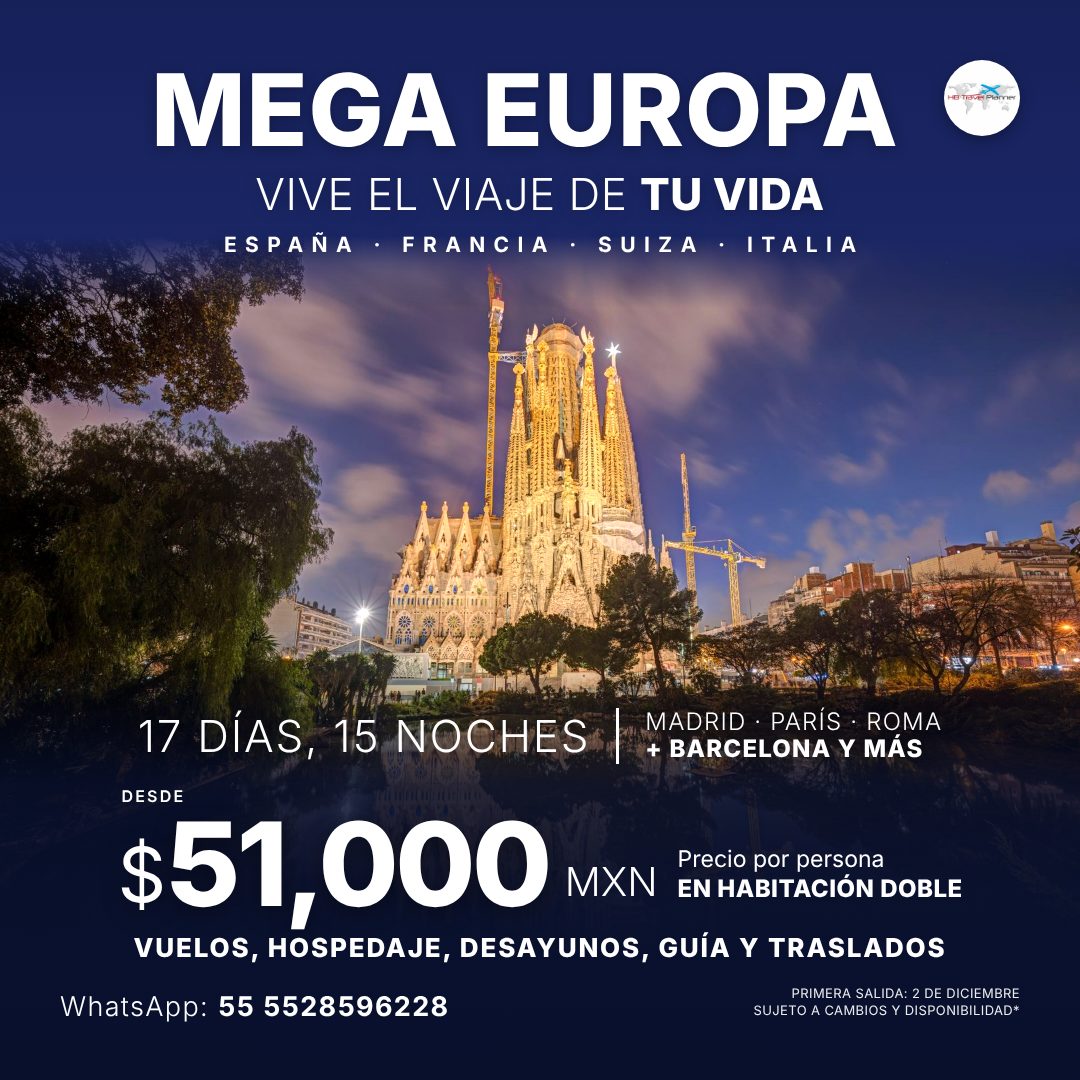
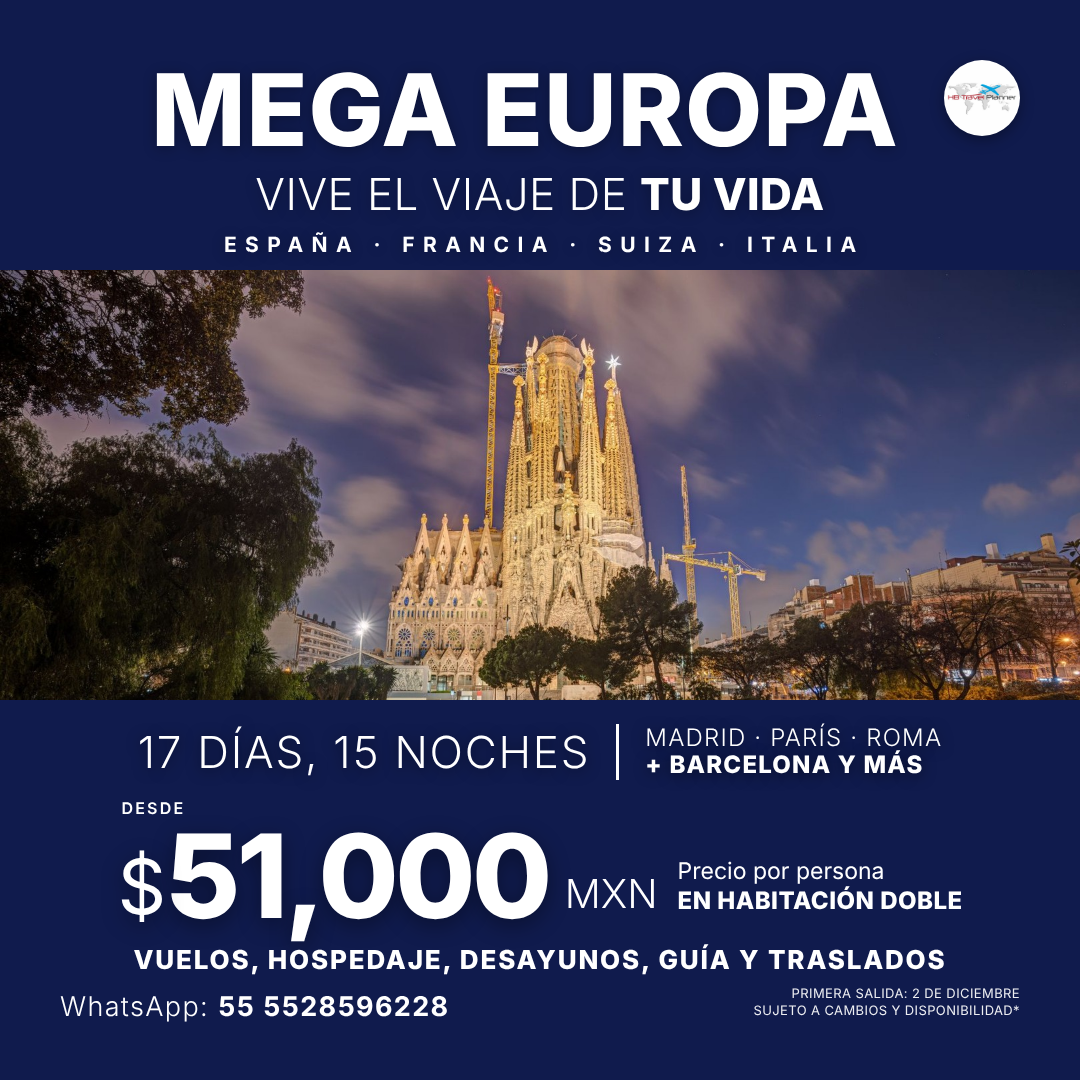
Mega Europa Sagrada flyer: flat solid layout, no gradients
Claude-Session: https://claude.ai/code/session_01KE8y3zqjDfDU485wDV3TSB

diff --git a/flyers/mega-europa-sagrada.html b/flyers/mega-europa-sagrada.html
@@ -9,16 +9,9 @@
   *{box-sizing:border-box;margin:0;padding:0}
   body{background:#000;width:1080px;height:1080px;font-family:'Inter',sans-serif;color:#fff}
   .flyer{position:relative;width:1080px;height:1080px;overflow:hidden;
-    background:linear-gradient(180deg,#16215a 0,#1b2766 24%,#141d4a 60%,#0a1232 100%)}
-  .photo{position:absolute;left:0;top:236px;width:1080px;height:719px;
-    background:url(assets/sagrada.jpg) center/1080px 719px no-repeat;filter:brightness(1.12) saturate(1.15);
-    -webkit-mask-image:linear-gradient(180deg,transparent 0,#000 10%,#000 72%,transparent 100%);
-            mask-image:linear-gradient(180deg,transparent 0,#000 10%,#000 72%,transparent 100%)}
-  /* velo azul: da contraste al texto blanco sobre el cielo claro */
-  .tint{position:absolute;left:0;right:0;top:0;height:640px;
-    background:linear-gradient(180deg,rgba(18,76,160,.94) 0,rgba(26,92,172,.74) 30%,rgba(36,108,184,.46) 52%,rgba(36,108,184,0) 70%)}
-  .shade{position:absolute;left:0;right:0;top:660px;height:420px;
-    background:linear-gradient(180deg,rgba(8,16,44,0),rgba(8,16,44,.8) 30%,rgba(8,16,44,.92))}
+    background:#101b4d}
+  .photo{position:absolute;left:0;top:270px;width:1080px;height:430px;
+    background:url(assets/sagrada.jpg) 0 -22px/1080px 720px no-repeat}
   .t{position:absolute;left:var(--m);right:var(--m);text-align:center;text-shadow:0 2px 14px rgba(0,0,0,.3)}
   .title{top:60px;font-weight:800;font-size:100px;line-height:1;letter-spacing:.01em;text-transform:uppercase;
     padding-right:30px /* deja libre la esquina del logo */}
@@ -28,14 +21,14 @@
   .logo{position:absolute;right:var(--m);top:var(--m);width:76px;height:76px;border-radius:50%;
     background:#fff url(assets/logo.jpg) center/118% no-repeat;box-shadow:0 4px 14px rgba(0,0,0,.35)}
 
-  .row1{position:absolute;left:var(--m);right:var(--m);top:708px;display:flex;justify-content:center;align-items:center;gap:26px;
+  .row1{position:absolute;left:var(--m);right:var(--m);top:724px;display:flex;justify-content:center;align-items:center;gap:26px;
     text-shadow:0 2px 14px rgba(0,0,0,.55)}
   .row1 .big{font-weight:300;font-size:44px;letter-spacing:.04em;text-transform:uppercase}
   .row1 .bar{width:3px;height:56px;background:#fff}
   .row1 .small{font-weight:300;font-size:24px;line-height:1.12;letter-spacing:.05em;text-transform:uppercase}
   .row1 .small b{font-weight:800}
 
-  .price{position:absolute;left:var(--m);right:var(--m);top:788px;display:flex;justify-content:center;align-items:flex-end;gap:16px}
+  .price{position:absolute;left:var(--m);right:var(--m);top:800px;display:flex;justify-content:center;align-items:flex-end;gap:16px}
   .amtwrap{position:relative}
   .por{position:absolute;left:4px;top:-2px;font-size:16px;font-weight:600;letter-spacing:.14em}
   .amt{font-weight:800;font-size:116px;line-height:1;letter-spacing:-.03em;margin-top:18px;text-shadow:0 6px 22px rgba(0,0,0,.4)}
@@ -44,7 +37,7 @@
   .note{font-size:23px;font-weight:400;line-height:1.25;padding-bottom:18px;margin-left:4px;white-space:nowrap}
   .note b{font-weight:800;display:block;text-transform:uppercase;font-size:24px;letter-spacing:.02em}
 
-  .inc{position:absolute;left:var(--m);right:var(--m);top:932px;text-align:center;font-weight:800;font-size:26px;letter-spacing:.07em;text-transform:uppercase;white-space:nowrap}
+  .inc{position:absolute;left:var(--m);right:var(--m);top:944px;text-align:center;font-weight:800;font-size:26px;letter-spacing:.07em;text-transform:uppercase;white-space:nowrap}
   .row4{position:absolute;left:var(--m);right:var(--m);bottom:var(--m);display:flex;justify-content:space-between;align-items:flex-end}
   .ph{font-weight:300;font-size:27px;letter-spacing:.05em;line-height:1}
   .ph b{font-weight:700}
@@ -54,8 +47,7 @@
 <body>
 <div class="flyer">
   <div class="photo"></div>
-    <div class="shade"></div>
-  <div class="logo"></div>
+    <div class="logo"></div>
 
   <div class="t title">Mega Europa</div>
   <div class="t sub">Vive el viaje de <b>tu vida</b></div>
